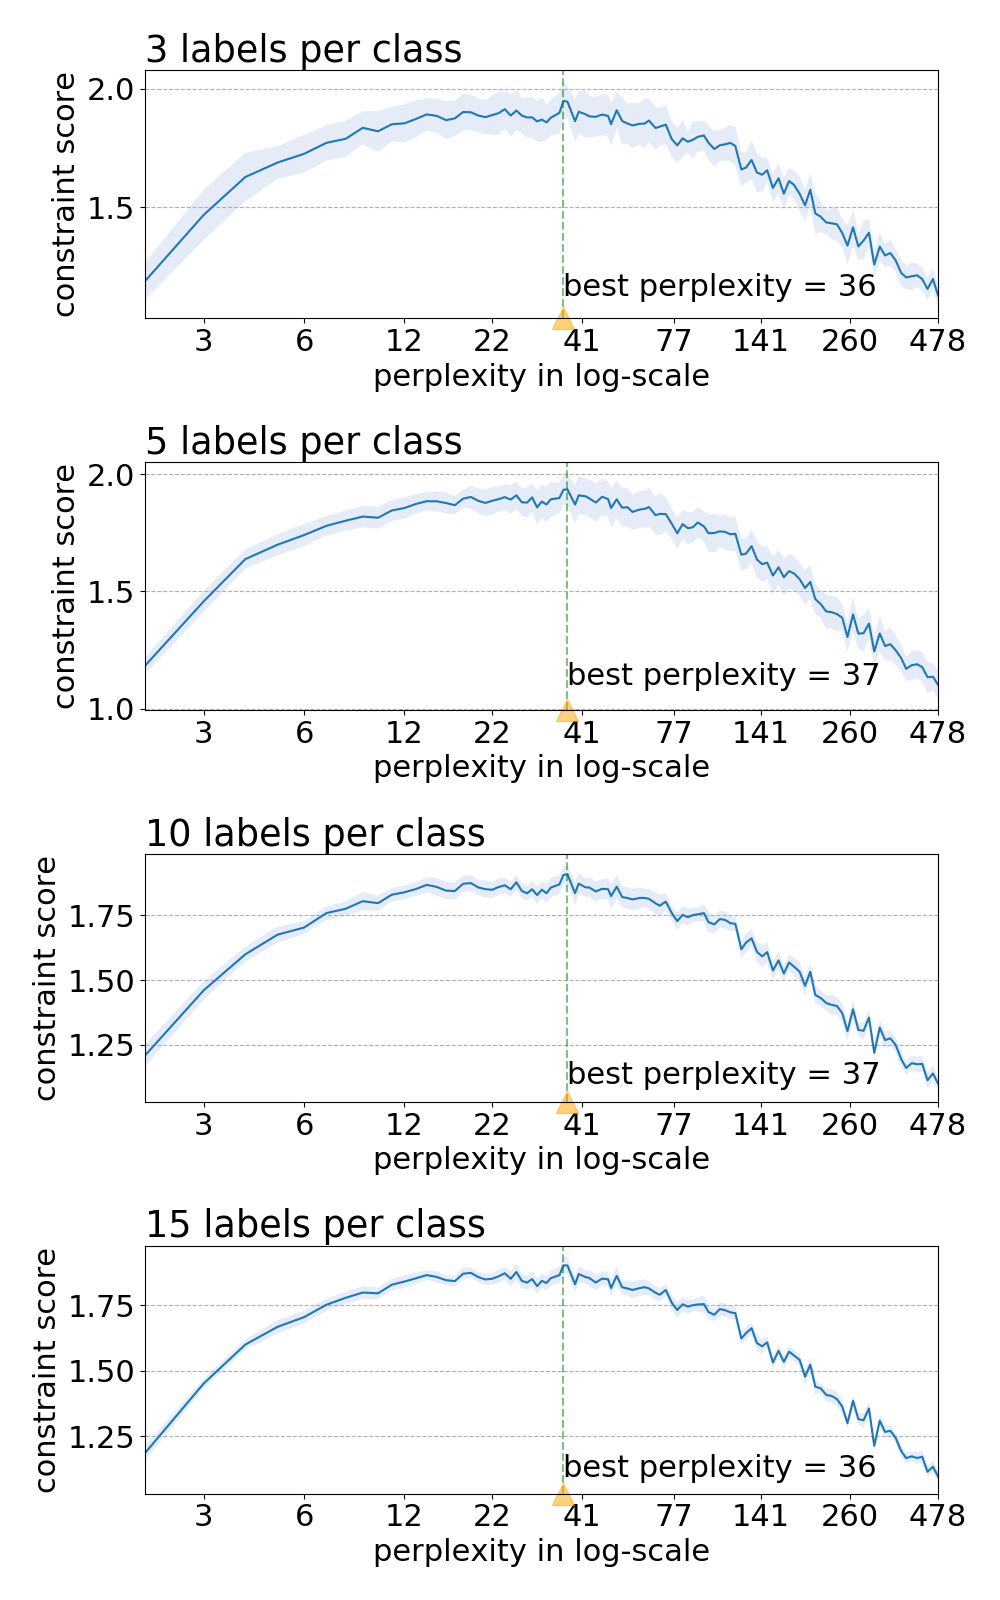
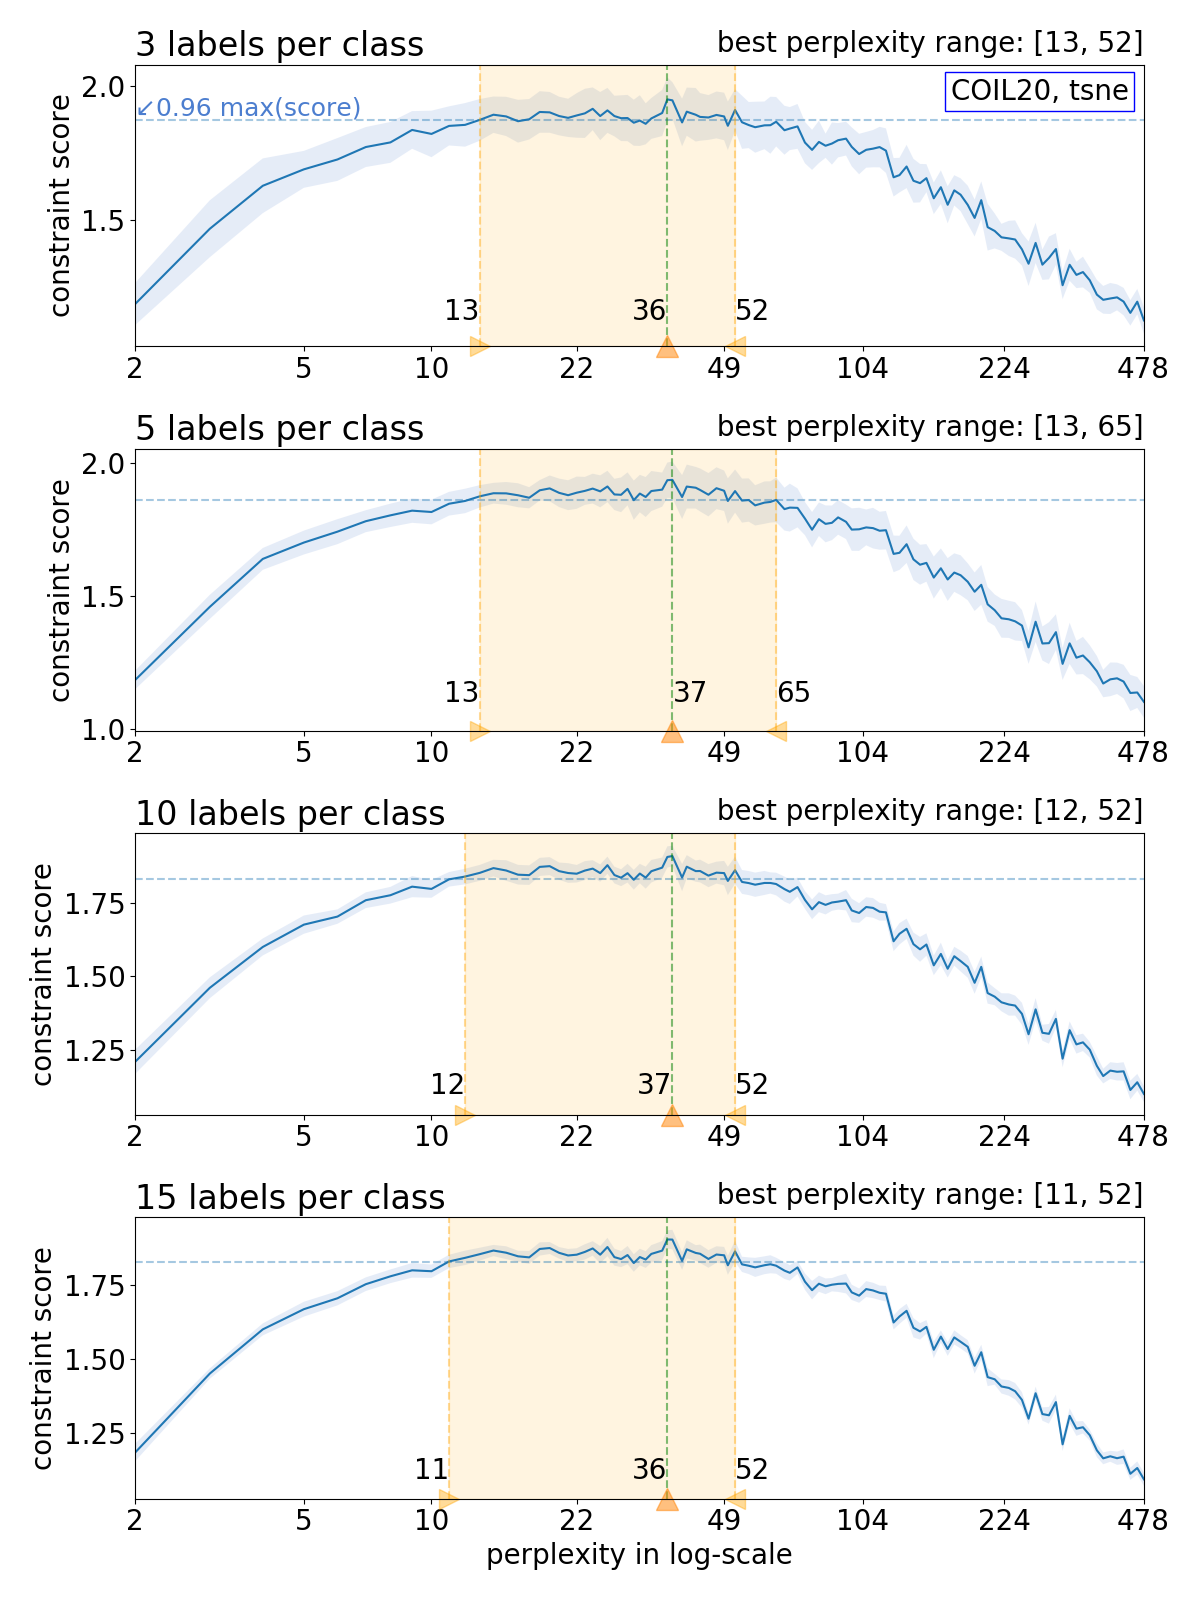
refactor plot score with hint text

diff --git a/code/run_score.py b/code/run_score.py
@@ -95,50 +95,47 @@ def _plot_line_with_variance(ax, score_mean, score_sigma, list_params):
     # custom xaxis in log scale
     ax.set_xscale("log", basex=np.e)
     ax.set_xlim(left=min(list_params), right=max(list_params))
+
+    # force list params to show on axias
+    list_params_to_show = utils.generate_value_range(
+        min_val=1.1, max_val=max(list_params), num=9, range_type="log", dtype=int)
+    ax.set_xticks(list_params_to_show)
     ax.xaxis.set_major_formatter(mpl.ticker.ScalarFormatter())
 
     # custom yaxis to show only 3 score values
     ax.locator_params(axis='y', nbins=3)
 
 
-def _plot_best_param(ax, score_mean, list_params):
-    best_param_index = np.argmax(score_mean)
-    best_param_value = list_params[best_param_index]
+def _plot_best_param(ax, best_param_value, text_y_pos=0.0, text_align="left"):
     ax.axvline(best_param_value, color='g', linestyle='--', alpha=0.5,
                marker="^", markersize=16, clip_on=False,
                markeredgecolor="#FF8200", markerfacecolor="#FF8200", markevery=100)
-    ax.text(x=best_param_value, y=min(score_mean), s=str(best_param_value))
+    ax.text(x=best_param_value, y=text_y_pos, s=str(best_param_value), ha=text_align)
 
 
-def _plot_best_range(ax, score_mean, list_params, param_name="", threshold=0.95):
-    pivot = threshold * score_mean.max()
-    (best_indices, ) = np.where(score_mean > pivot)
-    param_min = list_params[best_indices.min()]
-    param_max = list_params[best_indices.max()]
+def _plot_best_range(ax, param_min, param_max, param_name="", text_y_pos=0.0):
     ax.axvspan(param_min, param_max, alpha=0.12, color="orange")
-
-    # horizontal line to indicate top 96% highest score
-    ax.axhline(pivot, linestyle="--", alpha=0.4)
 
     # vertical line on the left
     ax.axvline(param_min, color="orange", linestyle='--', alpha=0.4,
                marker=">", markersize=14, clip_on=False,
                markeredgecolor="orange", markerfacecolor="orange", markevery=100)
-    ax.text(x=param_min, y=min(score_mean), s=str(param_min), ha="right")
+    ax.text(x=param_min, y=text_y_pos, s=str(param_min), ha="right")
 
     # vertical line on the right
     ax.axvline(param_max, color="orange", linestyle='--', alpha=0.4,
                marker="<", markersize=14, clip_on=False,
                markeredgecolor="orange", markerfacecolor="orange", markevery=100)
-    ax.text(x=param_max, y=min(score_mean), s=str(param_max), ha="left")
+    ax.text(x=param_max, y=text_y_pos, s=str(param_max), ha="left")
 
     # add text to show the best range
-    ax.text(x=1.0, y=1.025, transform=ax.transAxes, ha="right",
-            s=u"\u2199" + f" best {param_name} range: [{param_min}, {param_max}]")
+    ax.text(x=1.0, y=1.025, transform=ax.transAxes, ha="right", va="bottom",
+            s=f" best {param_name} range: [{param_min}, {param_max}]")
 
 
 def plot_scores_with_std(dataset_name, method_name, score_name, list_n_labels_values,
                          degrees_of_freedom=1.0, param_name="param"):
+    # prepare score data
     with open(f"{score_dir}/dof{degrees_of_freedom}_all.txt", "r") as in_file:
         json_data = json.load(in_file)
 
@@ -146,35 +143,60 @@ def plot_scores_with_std(dataset_name, method_name, score_name, list_n_labels_va
     list_params = np.array(list_params)
     all_scores = json_data['all_scores']
 
+    # prepare threshold value to filter the top highest scores
+    threshold = {'tsne': 0.96, 'umap': 0.96, 'largevis': 0.9}[method_name]
+
+    # prepare subplots
     n_rows = len(list_n_labels_values)
     _, axes = plt.subplots(n_rows, 1, figsize=(12, 4*n_rows))
 
     for ax, n_labels_each_class in zip(np.array(axes).ravel(), sorted(list_n_labels_values)):
+        first_plot = n_labels_each_class == min(list_n_labels_values)
+        last_plot = n_labels_each_class == max(list_n_labels_values)
+
         ax.set_title(f"{n_labels_each_class} labels per class", loc="left")
         scores = all_scores[str(n_labels_each_class)]
         score_mean, score_sigma = np.mean(scores, axis=0), np.std(scores, axis=0)
+        text_y_pos = min(score_mean)  # y-position to show text, e.g., value of best param
 
+        # determine best param range and best param value
+        pivot = threshold * max(score_mean)
+        (best_indices, ) = np.where(score_mean > pivot)
+        param_min = list_params[best_indices.min()]
+        param_max = list_params[best_indices.max()]
+        param_best = list_params[np.argmax(score_mean)]
+
+        # horizontal line to indicate top 96% highest score
+        ax.axhline(pivot, linestyle="--", alpha=0.4)
+
+        # main line of mean_score with variance
         _plot_line_with_variance(ax, score_mean, score_sigma, list_params)
 
         # plot bestparam in the same customized xaxis
-        _plot_best_param(ax, score_mean, list_params)
+        text_align = ("right" if (param_best - param_min) > (param_max - param_best)
+                      else "left")
+        _plot_best_param(ax, param_best, text_y_pos, text_align)
 
-        # plot also the range of best param, the top 96% scores
-        _plot_best_range(ax, score_mean, list_params, param_name, threshold=0.96)
+        # plot also the best param range (the top 96% scores)
+        _plot_best_range(ax, param_min, param_max, param_name, text_y_pos)
 
         # show label for params only for the last plot
-        if n_labels_each_class == max(list_n_labels_values):
+        if last_plot:
             ax.set_xlabel(f"{param_name} in log-scale")
         ax.set_ylabel('constraint score')
-        # ax.yaxis.grid(linestyle='--')
 
-        # show dataset name for the first plot only
-        if n_labels_each_class == min(list_n_labels_values):
-            ax.text(x=0.985, y=0.875, s=dataset_name, transform=ax.transAxes, ha="right",
+        # additional annotation for first plot
+        if first_plot:
+            # hint text for the top hightest scores horizontal line
+            ax.text(x=min(list_params), y=pivot, ha="left", va="bottom", alpha=0.7,
+                    s=u"\u2199" + f"{threshold} max(score)", fontsize=18, color="#0047BB")
+            # hint the dataset and method name
+            ax.text(x=0.985, y=0.875, s=f"{dataset_name}, {method_name}",
+                    transform=ax.transAxes, ha="right",
                     bbox=dict(edgecolor='b', facecolor='w'))
 
     plt.tight_layout()
-    plt.savefig(f"{plot_dir}/scores_with_std_dof{degrees_of_freedom}_test_best_range.png")
+    plt.savefig(f"{plot_dir}/scores_with_std_dof{degrees_of_freedom}.png")
     plt.close()
 
 

diff --git a/code/utils.py b/code/utils.py
@@ -71,7 +71,7 @@ def _generate_log_range(min_val=2, max_val=1000, num=150, dtype=int, base=math.e
     }[base]
     min_exp = log_func(min_val)
     max_exp = log_func(max_val)
-    range_values = np.logspace(min_exp, max_exp, num=num, base=base,  dtype=dtype)
+    range_values = np.logspace(min_exp, max_exp, num=num, base=base, dtype=dtype)
     return np.unique(range_values[np.where(range_values >= min_val)])
 
 
